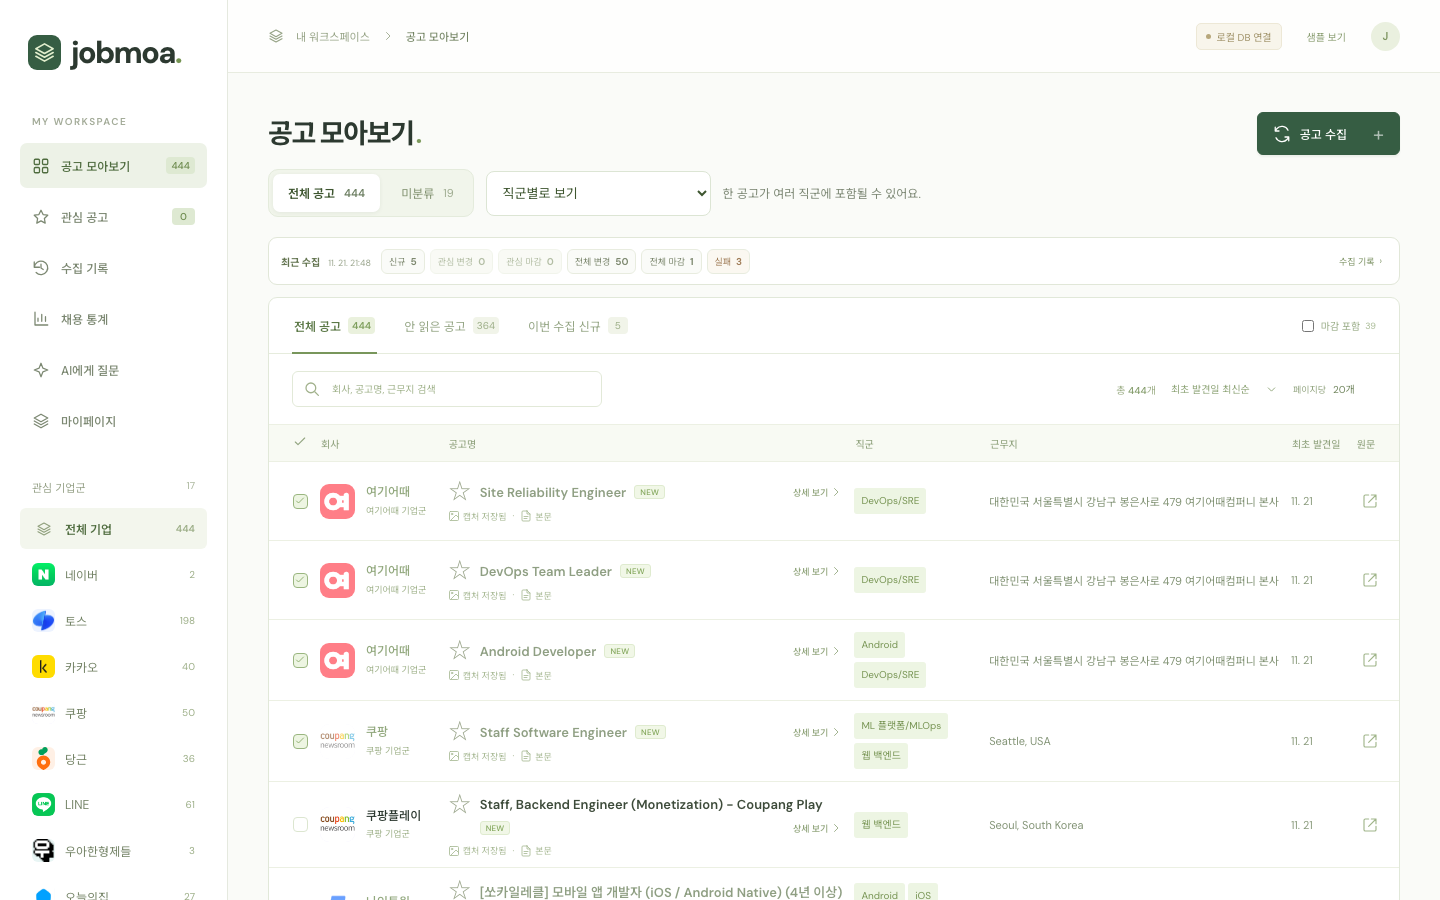
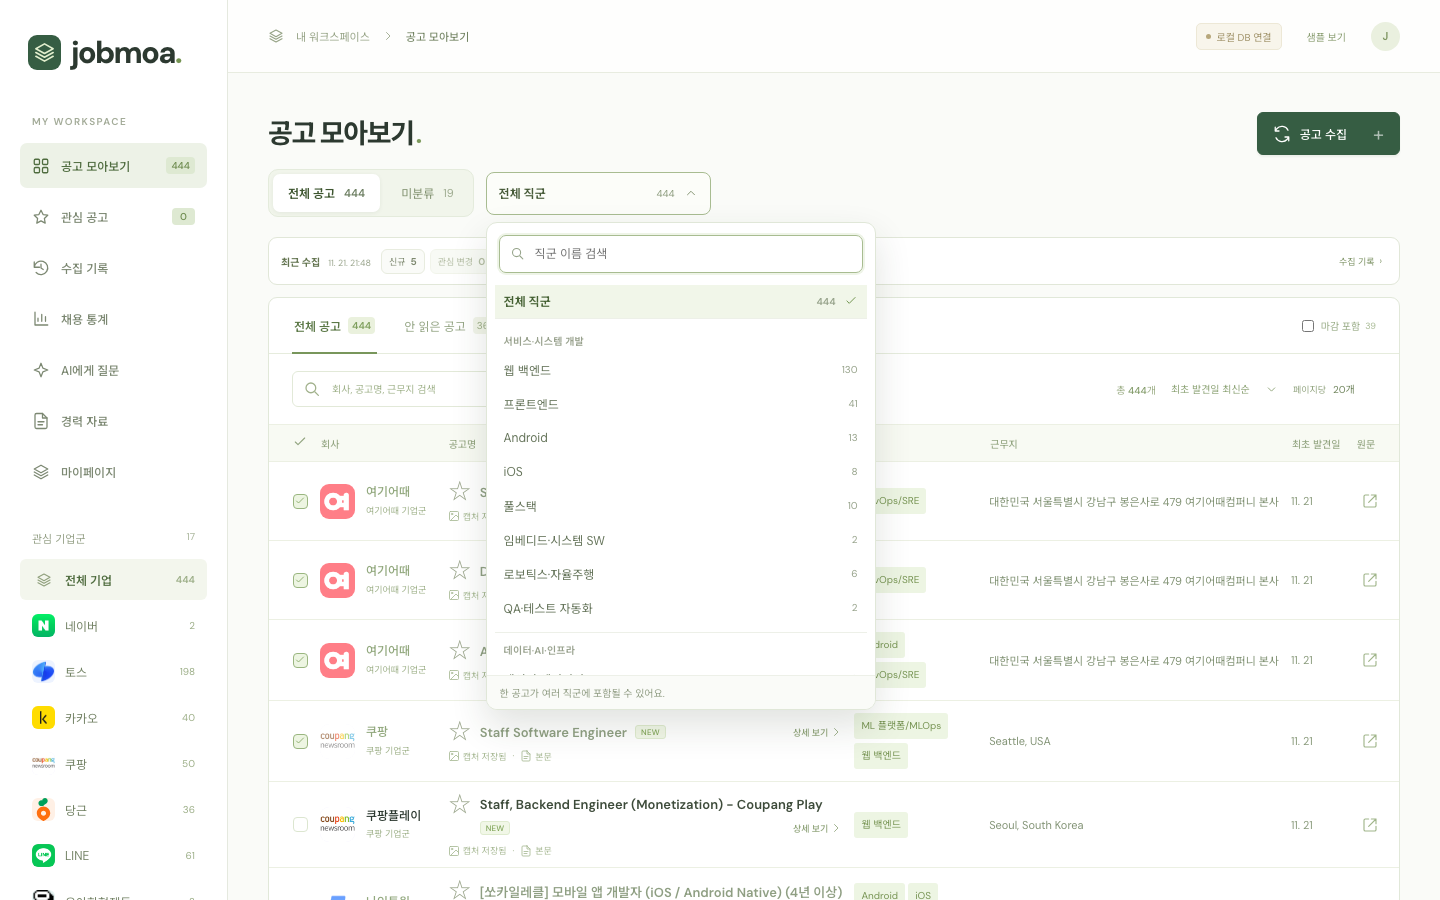
feat: 직군 선택 검색 팝오버 적용

diff --git a/frontend/src/components/CategoryPicker.tsx b/frontend/src/components/CategoryPicker.tsx
@@ -1,0 +1,136 @@
+import { useEffect, useMemo, useRef, useState } from 'react'
+import type { Category } from '../types'
+import { Icon } from './Icon'
+
+const categoryGroups = [
+  {
+    name: '서비스·시스템 개발',
+    ids: ['web-backend', 'web-frontend', 'android', 'ios', 'fullstack', 'embedded-system', 'robotics', 'qa-test'],
+  },
+  {
+    name: '데이터·AI·인프라',
+    ids: ['data-engineer', 'ml-engineer', 'ai-application', 'ml-platform', 'devops-sre', 'cloud-infrastructure', 'database', 'data-analysis-bi'],
+  },
+  {
+    name: '기획·비즈니스·디자인',
+    ids: ['planning', 'product-management', 'design', 'marketing', 'sales'],
+  },
+]
+
+interface CategoryPickerProps {
+  categories: Category[]
+  counts: Record<string, number>
+  value: string
+  onSelect: (categoryId: string) => void
+}
+
+export function CategoryPicker({ categories, counts, value, onSelect }: CategoryPickerProps) {
+  const [open, setOpen] = useState(false)
+  const [query, setQuery] = useState('')
+  const rootRef = useRef<HTMLDivElement>(null)
+  const triggerRef = useRef<HTMLButtonElement>(null)
+  const searchRef = useRef<HTMLInputElement>(null)
+
+  const groups = useMemo(() => {
+    const groupedIds = new Set(categoryGroups.flatMap(group => group.ids))
+    const configured = categoryGroups.map(group => ({
+      name: group.name,
+      categories: group.ids.flatMap(id => {
+        const category = categories.find(item => item.id === id)
+        return category ? [category] : []
+      }),
+    })).filter(group => group.categories.length)
+    const extra = categories.filter(category => category.id !== 'all' && !groupedIds.has(category.id))
+    return extra.length ? [...configured, { name: '기타 직군', categories: extra }] : configured
+  }, [categories])
+
+  const selected = categories.find(category => category.id === value && category.id !== 'all')
+  const triggerLabel = selected?.name ?? (value === 'unclassified' ? '직군 선택' : '전체 직군')
+  const normalizedQuery = query.trim().toLocaleLowerCase()
+  const visibleGroups = groups.map(group => ({
+    ...group,
+    categories: group.categories.filter(category => category.name.toLocaleLowerCase().includes(normalizedQuery)),
+  })).filter(group => group.categories.length)
+
+  useEffect(() => {
+    if (!open) return
+    searchRef.current?.focus()
+    const onPointerDown = (event: PointerEvent) => {
+      if (!rootRef.current?.contains(event.target as Node)) setOpen(false)
+    }
+    const onKeyDown = (event: KeyboardEvent) => {
+      if (event.key === 'Escape') {
+        event.preventDefault()
+        setOpen(false)
+        setQuery('')
+        triggerRef.current?.focus()
+      }
+    }
+    document.addEventListener('pointerdown', onPointerDown)
+    document.addEventListener('keydown', onKeyDown)
+    return () => {
+      document.removeEventListener('pointerdown', onPointerDown)
+      document.removeEventListener('keydown', onKeyDown)
+    }
+  }, [open])
+
+  const choose = (categoryId: string) => {
+    onSelect(categoryId)
+    setOpen(false)
+    setQuery('')
+    requestAnimationFrame(() => triggerRef.current?.focus())
+  }
+
+  return <div className="category-picker" ref={rootRef} onBlur={event => {
+    if (!rootRef.current?.contains(event.relatedTarget as Node | null)) setOpen(false)
+  }}>
+    <button
+      ref={triggerRef}
+      type="button"
+      className="category-picker-trigger"
+      aria-label={`직군 선택: ${triggerLabel}`}
+      aria-expanded={open}
+      aria-haspopup="dialog"
+      aria-controls="category-picker-panel"
+      onClick={() => setOpen(current => !current)}
+    >
+      <strong>{triggerLabel}</strong>
+      {(value === 'all' || selected) && <span className="category-picker-count">{counts[selected?.id ?? 'all'] ?? 0}</span>}
+      <Icon name="down" size={14} />
+    </button>
+    {open && <div id="category-picker-panel" className="category-picker-panel" role="dialog" aria-label="직군 선택">
+      <label className="category-picker-search">
+        <Icon name="search" size={15} />
+        <input
+          ref={searchRef}
+          type="search"
+          value={query}
+          placeholder="직군 이름 검색"
+          aria-label="직군 이름 검색"
+          onChange={event => setQuery(event.target.value)}
+        />
+      </label>
+      <div className="category-picker-options">
+        {!normalizedQuery && <button type="button" className={`category-picker-option category-picker-all ${value === 'all' ? 'selected' : ''}`} aria-pressed={value === 'all'} onClick={() => choose('all')}>
+          <span>전체 직군</span><span>{counts.all ?? 0}</span>{value === 'all' && <Icon name="check" size={14} />}
+        </button>}
+        {visibleGroups.map(group => <section className="category-picker-group" key={group.name}>
+          <h3>{group.name}</h3>
+          {group.categories.map(category => <button
+            type="button"
+            key={category.id}
+            className={`category-picker-option ${value === category.id ? 'selected' : ''}`}
+            aria-pressed={value === category.id}
+            onClick={() => choose(category.id)}
+          >
+            <span>{category.name}</span>
+            <span>{counts[category.id] ?? 0}</span>
+            {value === category.id && <Icon name="check" size={14} />}
+          </button>)}
+        </section>)}
+        {!visibleGroups.length && <p className="category-picker-empty">일치하는 직군이 없어요.</p>}
+      </div>
+      <p className="category-picker-footnote">한 공고가 여러 직군에 포함될 수 있어요.</p>
+    </div>}
+  </div>
+}

diff --git a/frontend/src/data.ts b/frontend/src/data.ts
@@ -403,19 +403,27 @@ export function summarize(run: CollectionRun) {
 }
 
 export const CATEGORIES = [
-  { id: 'all', name: '전체 공고', description: '선택한 회사에서 수집을 지원하는 모든 직무의 공고' },
-  { id: 'web-backend', name: '웹 백엔드', description: '웹·앱 서비스 API와 서버 로직 개발 · 풀스택 제외' },
-  { id: 'web-frontend', name: '프론트엔드', description: '웹 화면과 브라우저 클라이언트 개발 · 풀스택 제외' },
+  { id: 'all', name: '전체 공고', description: '각 회사 수집기가 지원하는 분야의 공고를 함께 수집' },
+  { id: 'web-backend', name: '웹 백엔드', description: '웹·앱 서비스의 API와 서버 비즈니스 로직 개발' },
+  { id: 'web-frontend', name: '프론트엔드', description: '브라우저에서 동작하는 웹 UI와 프론트엔드 애플리케이션 개발' },
   { id: 'android', name: 'Android', description: 'Android 앱과 클라이언트 개발' },
   { id: 'ios', name: 'iOS', description: 'iOS 앱과 클라이언트 개발' },
-  { id: 'fullstack', name: '풀스택', description: '프론트엔드와 백엔드 양쪽을 담당하는 명확한 풀스택 직무' },
-  { id: 'data-engineer', name: '데이터 엔지니어', description: '데이터 파이프라인·수집·처리 플랫폼 개발 · 분석가 제외' },
-  { id: 'ml-engineer', name: 'ML 엔지니어', description: '머신러닝 모델·추론 서비스 구현 · 순수 연구 직무 제외' },
+  { id: 'fullstack', name: '풀스택', description: '프론트엔드와 백엔드를 함께 담당하는 풀스택 개발' },
+  { id: 'data-engineer', name: '데이터 엔지니어', description: '데이터 파이프라인·수집·적재·처리 플랫폼 개발' },
+  { id: 'ml-engineer', name: 'ML 엔지니어', description: '머신러닝 모델 구현·서비스 적용·추론 시스템 개발' },
   { id: 'devops-sre', name: 'DevOps/SRE', description: '배포 자동화·서비스 신뢰성·운영 인프라 엔지니어링' },
-  { id: 'planning', name: '기획', description: '서비스·사업 기획과 실행 계획 수립' },
-  { id: 'product-management', name: 'PM', description: '제품·프로젝트의 우선순위와 실행을 이끄는 PM 직무' },
-  { id: 'design', name: '디자인', description: '프로덕트·UX/UI·브랜드 등 명확한 디자인 직무' },
-  { id: 'marketing', name: '마케팅', description: '브랜드·콘텐츠·퍼포먼스·CRM 등 마케팅 직무' },
-  { id: 'sales', name: '영업', description: '고객·파트너 발굴과 매출 창출을 담당하는 영업 직무' },
+  { id: 'planning', name: '기획·전략', description: '서비스·사업의 요구사항, 운영 정책과 실행 계획 수립' },
+  { id: 'product-management', name: 'PM', description: '제품·프로젝트의 목표, 로드맵, 우선순위와 일정 관리' },
+  { id: 'design', name: '디자인', description: 'UX/UI·프로덕트·브랜드 등의 디자인과 사용자 경험 설계' },
+  { id: 'marketing', name: '마케팅', description: '브랜드·콘텐츠·퍼포먼스 마케팅과 캠페인 기획·실행' },
+  { id: 'sales', name: '영업·사업개발', description: '고객 영업·제휴·사업개발을 통한 신규 고객과 매출 확보' },
+  { id: 'ai-application', name: 'AI 응용·에이전트 개발', description: '기존 AI 모델·LLM을 이용한 서비스와 에이전트 구현' },
+  { id: 'ml-platform', name: 'ML 플랫폼/MLOps', description: '모델 학습·서빙·평가를 위한 공통 플랫폼' },
+  { id: 'cloud-infrastructure', name: '클라우드·시스템 인프라', description: '클라우드·컴퓨팅·네트워크·시스템 기반 구축' },
+  { id: 'database', name: 'DBA/데이터베이스', description: '데이터베이스 운영·성능·가용성 및 엔진 개발' },
+  { id: 'embedded-system', name: '임베디드·시스템 SW', description: '펌웨어·OS·하드웨어 인접 소프트웨어 개발' },
+  { id: 'robotics', name: '로보틱스·자율주행', description: '로봇·자율주행의 인지·제어·경로 계획 개발' },
+  { id: 'qa-test', name: 'QA·테스트 자동화', description: '품질 검증과 테스트 자동화 개발' },
+  { id: 'data-analysis-bi', name: '데이터 분석·BI', description: '데이터 분석·지표·실험과 BI 구축' },
 ]
 export const categoryName = (id = 'all') => CATEGORIES.find(category => category.id === id)?.name ?? id

diff --git a/frontend/src/App.css b/frontend/src/App.css
@@ -3357,8 +3357,34 @@ dialog::backdrop {
 
 .classification-filters { display: flex; flex-wrap: wrap; align-items: center; gap: 12px; margin-bottom: 20px; }
 .classification-filters .category-tabs { margin: 0; }
-.classification-filters > select { min-width: 225px; max-width: 100%; border: 1px solid #dce5d4; border-radius: 8px; padding: 12px; background: #fff; color: #3e5630; font: inherit; font-size: 13px; }
-.classification-hint { font-size: 12px; color: #7d8875; }
+.category-picker { position: relative; z-index: 20; }
+.category-picker-trigger { display: flex; align-items: center; gap: 9px; min-width: 225px; max-width: min(340px, calc(100vw - 40px)); height: 43px; padding: 0 12px; border: 1px solid #dce5d4; border-radius: 8px; background: #fff; color: #3e5630; text-align: left; cursor: pointer; }
+.category-picker-trigger:hover, .category-picker-trigger[aria-expanded="true"] { border-color: #a8bc91; background: #fcfdf9; }
+.category-picker-trigger:focus-visible, .category-picker-option:focus-visible { outline: 3px solid #c2d6a9; outline-offset: 2px; }
+.category-picker-trigger strong { flex: 1; min-width: 0; overflow: hidden; color: #475b39; font-size: 12px; font-weight: 600; text-overflow: ellipsis; white-space: nowrap; }
+.category-picker-count { color: #8a9a7b; font-size: 10px; font-variant-numeric: tabular-nums; }
+.category-picker-trigger > svg { flex: 0 0 auto; color: #879775; transition: transform .15s; }
+.category-picker-trigger[aria-expanded="true"] > svg { transform: rotate(180deg); }
+.category-picker-panel { position: absolute; top: calc(100% + 7px); left: 0; z-index: 50; width: min(390px, calc(100vw - 40px)); overflow: hidden; border: 1px solid #e0e7d8; border-radius: 11px; background: #fff; box-shadow: 0 16px 36px #2c3a2424; }
+.category-picker-search { display: flex; align-items: center; gap: 8px; margin: 12px; padding: 0 10px; height: 38px; border: 1px solid #e3e9dd; border-radius: 7px; color: #96a48a; }
+.category-picker-search:focus-within { border-color: #a8bc91; box-shadow: 0 0 0 2px #eef4e7; }
+.category-picker-search input { flex: 1; min-width: 0; border: 0; outline: 0; background: transparent; color: #506044; font: inherit; font-size: 12px; }
+.category-picker-options { max-height: min(390px, calc(100dvh - 250px)); overflow-y: auto; overscroll-behavior: contain; padding: 0 8px 8px; }
+.category-picker-option { width: 100%; display: flex; align-items: center; gap: 8px; min-height: 34px; padding: 6px 9px; border: 0; border-radius: 6px; background: transparent; color: #65745a; text-align: left; font-size: 12px; cursor: pointer; }
+.category-picker-option > span:first-child { flex: 1; }
+.category-picker-option > span:nth-child(2) { color: #96a28a; font-size: 10px; font-variant-numeric: tabular-nums; }
+.category-picker-option > svg { color: #70944e; }
+.category-picker-option:hover, .category-picker-option.selected { background: #f1f6e9; color: #456133; }
+.category-picker-option.category-picker-all { border-bottom: 1px solid #edf0e8; border-radius: 0; margin-bottom: 5px; font-weight: 600; }
+.category-picker-group { padding: 5px 0 7px; }
+.category-picker-group + .category-picker-group { border-top: 1px solid #edf0e8; }
+.category-picker-group h3 { margin: 4px 9px 5px; color: #99a28e; font-size: 10px; font-weight: 600; letter-spacing: .2px; }
+.category-picker-empty { padding: 18px 10px; color: #89947d; text-align: center; font-size: 11px; }
+.category-picker-footnote { margin: 0; padding: 9px 13px; border-top: 1px solid #edf0e8; background: #fafbf8; color: #919d84; font-size: 10px; }
+@media (max-width: 550px) {
+  .category-picker-panel { position: fixed; inset: auto 16px 16px; width: auto; max-height: calc(100dvh - 32px); display: flex; flex-direction: column; }
+  .category-picker-options { flex: 0 1 auto; min-height: 0; max-height: min(390px, calc(100dvh - 250px)); }
+}
 .classification-detail { margin: 16px 0; padding: 12px; background: #f6f8f3; border-radius: 8px; font-size: 12px; line-height: 1.7; }
 .classification-tags { display: flex; flex-wrap: wrap; gap: 6px; }
 .classification-detail summary { margin-top: 8px; cursor: pointer; color: #567246; }

diff --git a/frontend/src/App.tsx b/frontend/src/App.tsx
@@ -15,6 +15,7 @@ import { InterestStar } from './components/InterestControls'
 import { interestOf } from './interest'
 import { AiChat } from './components/AiChat'
 import { PostingMockGallery } from './components/PostingMockGallery'
+import { CategoryPicker } from './components/CategoryPicker'
 import { CareerMaterials } from './components/CareerMaterials'
 import './App.css'
 
@@ -57,6 +58,19 @@ function Workspace({ collection }: { collection: ReturnType<typeof useCollection
   const unread = available.filter((job) => !job.read).length
   const newCount = available.filter((job) => job.latestChange === 'new').length
   const closedCount = categoryJobs.filter((job) => job.closed).length
+  const categoryCounts = useMemo(() => {
+    const scoped = data.jobs.filter(job =>
+      (!changeScope || changeScope.ids.includes(job.id)) &&
+      (includeClosed || !job.closed) &&
+      (source === 'all' || job.sourceId === source) &&
+      (!companyFilter || job.companyId === companyFilter),
+    )
+    const counts: Record<string, number> = { all: scoped.length }
+    for (const job of scoped) {
+      for (const id of job.categories ?? []) counts[id] = (counts[id] ?? 0) + 1
+    }
+    return counts
+  }, [data.jobs, changeScope, includeClosed, source, companyFilter])
 
   const filtered = useMemo(
     () =>
@@ -326,18 +340,12 @@ function Workspace({ collection }: { collection: ReturnType<typeof useCollection
                 <div className="category-tabs" role="tablist" aria-label="공고 분류">
                   {[{ id: 'all', name: '전체 공고' }, { id: 'unclassified', name: '미분류' }].map(category => <button key={category.id} role="tab" aria-selected={categoryId === category.id} className={categoryId === category.id ? 'active' : ''} onClick={() => { setCategoryId(category.id); setPage(1); setSelectedJob(null) }}>{category.name}<span>{data.jobs.filter(job => (includeClosed || !job.closed) && (source === 'all' || job.sourceId === source) && (!companyFilter || job.companyId === companyFilter) && (category.id === 'all' || !job.categories?.length)).length}</span></button>)}
                 </div>
-                <select aria-label="세부 직군 선택" value={categoryId === 'all' || categoryId === 'unclassified' ? '' : categoryId} onChange={event => { setCategoryId(event.target.value); setPage(1); setSelectedJob(null) }}>
-                  <option value="" disabled>직군별로 보기</option>
-                  {[
-                    { name: '서비스·시스템 개발', ids: ['web-backend', 'web-frontend', 'android', 'ios', 'fullstack', 'embedded-system', 'robotics', 'qa-test'] },
-                    { name: '데이터·AI·인프라', ids: ['data-engineer', 'ml-engineer', 'ai-application', 'ml-platform', 'devops-sre', 'cloud-infrastructure', 'database', 'data-analysis-bi'] },
-                    { name: '기획·비즈니스·디자인', ids: ['planning', 'product-management', 'design', 'marketing', 'sales'] },
-                  ].map(group => <optgroup label={group.name} key={group.name}>{group.ids.flatMap(id => {
-                    const category = categories.find(item => item.id === id)
-                    return category ? <option key={id} value={id}>{category.name} · {data.jobs.filter(job => (includeClosed || !job.closed) && (source === 'all' || job.sourceId === source) && (!companyFilter || job.companyId === companyFilter) && job.categories?.includes(id)).length}</option> : []
-                  })}</optgroup>)}
-                </select>
-                <span className="classification-hint">한 공고가 여러 직군에 포함될 수 있어요.</span>
+                <CategoryPicker
+                  categories={categories}
+                  counts={categoryCounts}
+                  value={categoryId}
+                  onSelect={id => { setCategoryId(id); setPage(1); setSelectedJob(null) }}
+                />
               </div>
               {!demo && latestRun?.finishedAt && <CollectionChanges key={latestRun.id} run={latestRun} onBrowse={browseChanges} compact onOpenRun={() => openRun(latestRun.id)} />}
               {latestRun &&

diff --git a/docs/spec.md b/docs/spec.md
@@ -40,6 +40,7 @@
 ## 공고 탐색과 개인 관리
 
 - 공고 모아보기 첫 화면은 공고 표를 주 콘텐츠로 바로 보여준다. 장식용 소개·통계 카드는 표시하지 않는다. 완료된 최근 수집은 시각과 신규·관심 변경·마감·실패 건수를 한 줄에 모으며, 각 건수를 누르면 해당 결과를 공고 목록에서 확인할 수 있다. 수집 기록 링크는 기업별 상세로 이동한다.
+- 직군 선택은 그룹과 건수를 함께 보여주는 검색 팝오버로 제공한다. 선택한 직군은 버튼에 표시하고, ‘전체 직군’ 항목으로 초기화한다. 직군 건수는 현재 회사·기업군·마감 포함 범위로 계산한다. 좁은 화면에서는 팝오버를 화면 안의 바텀 패널로 배치한다.
 - 전체 조회와 분야별 조회를 제공한다. 회사·공고명·근무지를 검색하고 최초 발견일 최신순·오래된순 또는 회사 이름순으로 정렬한다. 페이지 크기는 8·20·50개에서 선택하고 기본은 20개다.
 - 기본 목록은 표형으로 회사·공고명·직군 태그·근무지·최초 발견일·원문 링크·읽음을 보여준다. 경력·마감일은 모든 사이트의 공통 필수 추출값이 아니다.
 - 공고명 또는 ‘상세 보기’를 누르면 현재 표 오른쪽에 상세 패널이 겹쳐 열린다. 배경 표는 너비·검색·정렬·페이지·스크롤을 유지한다. 상세를 닫으면 원래 목록으로 돌아오며, 이전·다음은 열었을 때의 필터 결과 순서를 따른다.

diff --git a/README.md b/README.md
@@ -27,7 +27,7 @@
 
 ### 2. 공고 목록부터 빠르게 훑기
 
-공고 모아보기 첫 화면은 소개 카드보다 목록을 먼저 보여줍니다. 최근 수집 시각과 신규·관심 공고 변경·마감·실패 건수는 한 줄 요약으로 확인하며, 숫자를 누르면 해당 공고 목록이나 수집 기록으로 이동합니다. 회사·공고명·근무지 검색과 직군 선택도 목록 바로 위에 둡니다.
+공고 모아보기 첫 화면은 소개 카드보다 목록을 먼저 보여줍니다. 최근 수집 시각과 신규·관심 공고 변경·마감·실패 건수는 한 줄 요약으로 확인하며, 숫자를 누르면 해당 공고 목록이나 수집 기록으로 이동합니다. 직군 선택은 그룹별 검색 팝오버로 제공하고, 현재 선택과 건수를 버튼에 표시합니다. 회사·공고명·근무지 검색도 목록 바로 위에 둡니다.
 
 - 전체 공고 / 안 읽은 공고 / 이번 수집 신규 탭
 - 최초 발견일 최신순·오래된순, 회사 이름순 정렬
